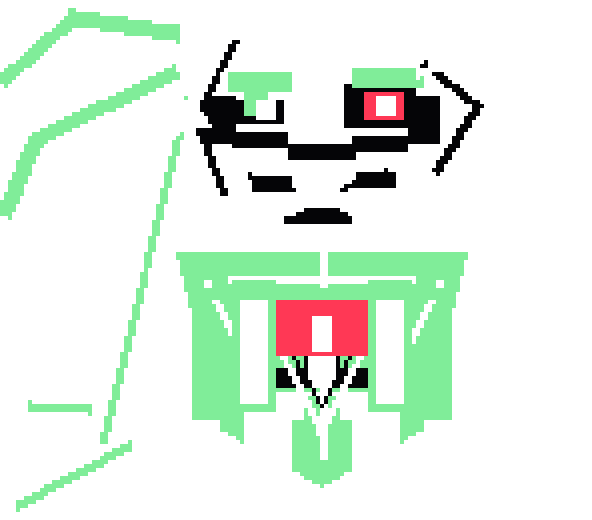
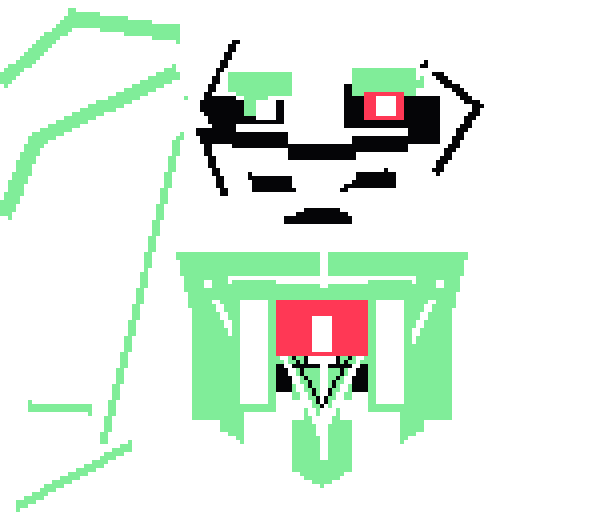
Add Undyne guard ladder reads

diff --git a/script.js b/script.js
@@ -1157,6 +1157,11 @@ function undynePattern(dt) {
     const chord = chords[sequenceIndex(0.72 - attackIntensity() * 0.08) % chords.length];
     spawnUndyneArrowChord(236 + attackIntensity() * 66, chord.split(" "), Math.max(0.055, 0.1 - attackIntensity() * 0.035));
   }
+  if (state.wave === 2 && every("undyne-guard-ladder", 1.18 - attackIntensity() * 0.1, dt)) {
+    const ladders = ["up left down", "right up left", "down right up", "left down right"];
+    const ladder = ladders[sequenceIndex(1.18 - attackIntensity() * 0.1) % ladders.length];
+    spawnUndyneArrowChord(258 + attackIntensity() * 58, ladder.split(" "), Math.max(0.065, 0.12 - attackIntensity() * 0.03));
+  }
 }
 
 function spawnUndyneArrowChord(speed, dirs, step = 0.14) {
@@ -1489,6 +1494,11 @@ function undyingPattern(dt) {
     const index = sequenceIndex(crossInterval);
     spawn("spear", { x: arena.x + arena.w * ([0.2, 0.42, 0.68, 0.84, 0.34, 0.58][index % 6]), y: arena.y - 35, vx: 0, vy: 314 + progress * 32, r: 12, angle: Math.PI / 2, delay: intensityRange(0.24, 0.16) });
     if (index % 3 !== 1) spawn("spear", { x: arena.x - 35, y: arena.y + arena.h * ([0.26, 0.52, 0.76][index % 3]), vx: 328 + progress * 30, vy: 0, r: 12, angle: 0, delay: intensityRange(0.28, 0.18) });
+  }
+  if (state.wave === 1 && every("undying-guard-ladder", 1.04 - progress * 0.08, dt)) {
+    const ladders = ["up right down", "left up right", "down left up", "right down left"];
+    const ladder = ladders[sequenceIndex(1.04 - progress * 0.08) % ladders.length];
+    spawnUndyneArrowChord(300 + progress * 58, ladder.split(" "), Math.max(0.045, 0.082 - progress * 0.025));
   }
   if (state.wave === 2 && every("undying-ring-salvo", 1.12 - progress * 0.1, dt)) {
     const index = sequenceIndex(1.12 - progress * 0.1);

diff --git a/tools/generate_boss_portraits.py b/tools/generate_boss_portraits.py
@@ -245,6 +245,8 @@ def undyne(name="undyne", undying=False):
     rect(d, (102, 24, 109, 35), BLACK)
     rect(d, (58, 33, 71, 36), BLACK)
     rect(d, (88, 34, 101, 37), BLACK)
+    rect(d, (59, 20, 72, 23), color)
+    rect(d, (88, 20, 103, 23), color)
     if undying:
         rect(d, (57, 18, 72, 22), GREEN)
         rect(d, (88, 17, 105, 21), GREEN)
@@ -273,6 +275,8 @@ def undyne(name="undyne", undying=False):
     rect(d, (69, 80, 91, 86), BLACK)
     rect(d, (73, 82, 87, 88), color)
     rect(d, (77, 78, 83, 96), WHITE)
+    rect(d, (68, 91, 92, 97), BLACK)
+    rect(d, (73, 92, 87, 99), color)
     line(d, [(57, 69), (103, 69)], WHITE, 2)
     line(d, [(80, 63), (80, 114)], WHITE, 2)
     trim_panel(d, 61, 72, 99, 108, WHITE, BLACK)

diff --git a/README.md b/README.md
@@ -67,6 +67,7 @@ Sans and Disbelief Papyrus also have sharper jacket/scarf/chest pixel blocks, wh
 Mettaton now has stronger hair, face, and chest-core pixels, and Ratings Rush adds a scripted ratings-lane burst with safe columns and pellet pressure for a showier yellow-heart practice feel.
 Omega Flowey now has clearer monitor sides, vine nodes, and body-core pixels, while Petal Burst adds an original petal-fan layer with skipped lanes for safer screen-filling pressure.
 Asriel now has sharper eye highlights, mouth, and robe-core pixels, and Hope Break adds an original hope-gate burst with safe columns plus falling diamond pressure.
+Undyne and Undyne the Undying now have stronger eye and armor-core pixels, with new green-heart guard-ladder chord strings for sharper shield-direction practice.
 Dynamic wave ramps use staged opener/build/finale intensity, so attacks start readable and tighten toward the end instead of changing at one flat rate.
 Weapon warnings and hazard telegraphs also follow that intensity curve, giving longer reads at the start of a turn and quicker warnings during the finale.
 Pattern sequencing now advances with the tuned spawn rate, so faster waves use the intended ordered reads instead of repeating lanes; Sans, Undyne, Undying, Asgore, Omega, Asriel, Mettaton, and Disbelief patterns have tighter speeds and more source-style safe gaps.
